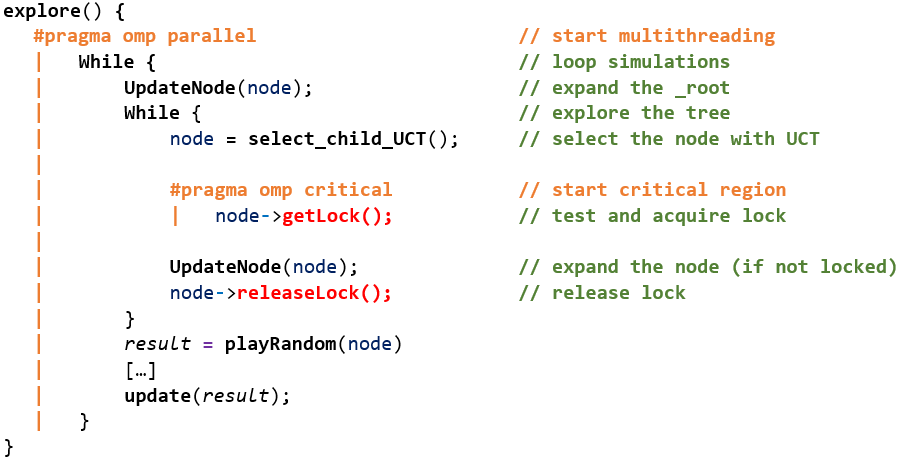
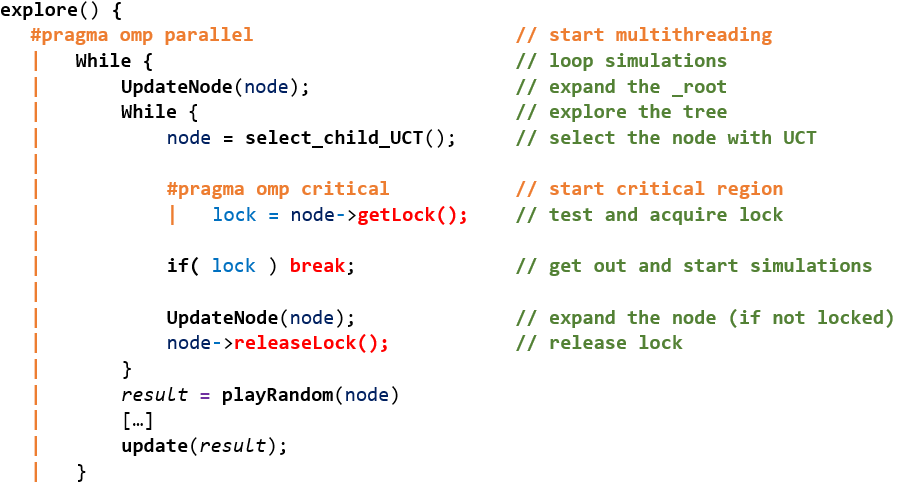
updating all my parts.

diff --git a/Docs/Reports/Report_4/Data_Structure/text.tex b/Docs/Reports/Report_4/Data_Structure/text.tex
@@ -1,7 +1,7 @@
-Given the size of the data our software will be working on, it requires an efficient way of storing them. There are 2 kinds of data, on the first hand the ones the program works on; on the other hand, the parameters and utilities.
+Reading only 2 moves ahead on Arimaa requires at least \ensuremath{20 000^2 = 4 \times 10^8} positions to be explored. If the size of a node is 100 octets, in order to store such a tree, we would require \ensuremath{4\times10^{10} octets \approx 37,3 Gio}. Given the size of the data our software will be working on, it requires an efficient way of storing them. There are 2 kinds of data, on one hand the ones the program works on; on the other hand, the parameters and utilities.
 \subsection{Representation of the playouts}
 \subsubsection{Bitboards}
-Boards are stored as bitboard. As the game is played on a \ensuremath{8\times8} board, it is convenient to use a 64 bit integer to store the position of the pieces. That way, each and every kind of pieces are stored on the same x64 integer, saving space as opposed to a matrix \ensuremath{8\times8} retaining all the informations. Players own rabbits, cats, dogs, horses, camel and elephant; thus using 6 integers for each player do the job. Adding an additionnal bitboard to store the position of every pieces of each players helps to increase the speed of the algorithm by reducing the number of test required to be done during the playout phases. It also allows quick tests and modifications such as bit twiddling given the nature of the data.
+Boards are stored as bitboards. As the game is played on a \ensuremath{8\times8} board, it is convenient to use a 64 bit integer to store the position of the pieces. That way, each and every kind of pieces is stored on the same x64 integer, saving space as opposed to a matrix \ensuremath{8\times8} retaining all the informations. Players own rabbits, cats, dogs, horses, camel and elephant; thus using 6 integers for each player is the least . Adding a bitboard to store the position of every piece of each players helps to increase the speed of the algorithm by reducing the number of tests required to be done during the playout phases. It also allows quick tests and modifications such as bit twiddling given the nature of the data.
 
 \subsubsection{Nodes}
 \begin{figure}[H] 
@@ -11,11 +11,12 @@ Boards are stored as bitboard. As the game is played on a \ensuremath{8\times8} 
 Nodes contain statistics about the previous results, a pointer to their parent, a pointer to the first of their children and the number of children they own. They are stored in an array (\textit{\_tree}) set at the begining of the program, thus grouping them on a countinuous memory segment. Therefore the time to gain access to them is decreased.
 
 \subsubsection{Prunning}
+Once a move has been played, only the sub-tree of its node is being kept. The others have to be discarded in order to get back some memory. The process of removing this branches is called prunning.
 \begin{figure}[H] 
 \centerline{\includegraphics[width=\textwidth]{Data_Structure/Img/array.png}}
 \caption{\label{fig:arrayprunning}\textit{Prunning of the tree (before and after)}.}
 \end{figure}
-In order to prune the tree, we use the following method : create a copy of the current tree (\textit{\_tree}) into a buffer (\textit{\_buff}). The root of the buffer tree will be a copy of the chosen node. Then the children are saved going down through the branches. The advantage of this method is that you only copy the nodes you want to keep. However the memory used by the buffer needs to be the same as the one of the tree before the prunning. Thus the maximum memory that can be used by the tree (\textit{\_tree}) is half the memory used by the program. In order to dermine the number of leaves to be created, the program checks how much memory there is left on the computer and use a fixed percentage of it.
+In order to prune the tree, we use the following method : create a copy of the current tree (\textit{\_tree}) into a buffer (\textit{\_buff}). The root of the buffer tree will be a copy of the node. Then the children are saved going down through the branches. The advantage of this method is that you only copy the nodes you want to keep. However the memory used by the buffer needs to be the same as the one of the tree before the prunning. Thus the maximum memory that can be used by the tree (\textit{\_tree}) is half the memory used by the program. In order to dermine the number of leaves to be created, the program checks how much memory there is left on the computer and use a fixed percentage of it.
 \begin{equation}
 N = \frac{R \times 90\%}{2}
 \end{equation}
@@ -29,7 +30,7 @@ We chose to limit the memory used by the tree to 90\% of the available memory in
 \centerline{\includegraphics[scale=0.8]{Data_Structure/Img/TheGame.png}}
 \caption{\label{fig:thegamedetails}\textit{Details of methods cointained in the interface TheGame}.}
 \end{figure}
-In order to know the moves that can be played and the winning conditions, the mcts algorithm has to have access to a class describing the game. This abstract class is implemented and passed as a parameter at the instantiation of the mcts object. It allows genericity in the algorithm and permits to use it on any board games such as Connect4 or Arimaa. This interface has 4 main methods : 
+In order to know the moves that can be played and the winning conditions, the mcts algorithm has to access to a class describing the game. This abstract class is implemented and passed as a parameter at the instantiation of the mcts object. It allows genericity in the algorithm and permits to use it on any board games such as Connect4 or Arimaa. This interface has 4 main methods : 
 
 \noindent
 \textit{\textbf{end}} : check if the board provided is a final state.
@@ -43,7 +44,7 @@ In order to know the moves that can be played and the winning conditions, the mc
 \newpage
 \subsection{Parameters and utilities}
 \subsubsection{Parameters}
-Instead of directly passing all the parameters to the mcts object at its instantiation, we decided to create an object that would provide them, given appropriate inline getters. The point of this is to allow quick modification on the parameters without having to rewrite some parts of the mcts to make sure that each files is updated. The main idea applied here is to separate the data from the algorithm with the same principle as the MVC design pattern.
+Instead of directly passing all the parameters to the mcts object at its instantiation, we decided to create an object that would provide them, given appropriate inline getters. The point of this is to allow quick modification on the parameters without having to rewrite some parts of the mcts to make sure that each files is updated. The main idea applied here is to separate the data from the algorithm with the same principle as the parameter object pattern.
 \begin{figure}[H] 
 \centerline{\includegraphics[scale=0.8]{Data_Structure/Img/MctsArgs.png}}
 \caption{\label{fig:mctsargsuml}\textit{Details of the parameters of the algorithm}.}
@@ -52,10 +53,10 @@ Instead of directly passing all the parameters to the mcts object at its instant
 \subsubsection{Fast log}
 The MCTS algorithm does not require an exact value of the \ensuremath{ln(x)} function in order to calculate the UCT value of a node. As numbers are stored in binary on computers, it is more interesting to get their log in base 2 and to divide it by \ensuremath{ln(2)}. 
 \begin{equation}
-ln(x) = \frac{log2(x)}{ln(2)}
+log2(x) = \frac{ln(x)}{ln(2)}
 \end{equation}
 \begin{equation}
-ln(x) = log2(x) \times \frac{1}{ln(2)}
+ln(x) = log2(x) \times ln(2)
 \end{equation}
 \begin{equation}
 ln(x) = log2(x) \times 0.69314718f

diff --git a/Docs/Reports/Report_4/Parallelisation/Computer/text.tex b/Docs/Reports/Report_4/Parallelisation/Computer/text.tex
@@ -1,22 +1,23 @@
-Given the size of the tree to be explored (at least 400 million nodes), a root parallelisation strategy on computers could not be applied. A 11 million nodes tree require about 2 Go of RAM. Should it be timed by 40 and the number of core, there would be not enough RAM.
-\bigskip
-\begin{center}
-	\begin{tabular}{ | c | c | c |}
-		\hline  & Before & After \\ \hline
-		\hline  
-		Percentage of memory used & 39\% & 93\% \\
-		\hline  
-		Total physical memory & 3981 MB & 3981 MB \\
-		\hline  
-		Free physical memory & 2411 MB & 255 MB \\
-		\hline
-	\end{tabular}
+Given the size of the tree to be explored (at least \ensuremath{4 \times 10^8} nodes, see \ref{sec:DS}), a root parallelisation strategy within a machine can not be applied. A 11 million nodes tree requires about 2 Gio of RAM. Should it be timed by 40 (\ensuremath{11 \times 10^6 \times 40 \approx 4 \times 10^8}), it would requires 80 Gio of RAM. Multiple threads, each working on seperate trees, would requires much more memory than available.
+% \bigskip
+% \begin{center}
+% 	\begin{tabular}{ | c | c | c |}
+% 		\hline  & Before & After \\ \hline
+% 		\hline  
+% 		Percentage of memory used & 39\% & 93\% \\
+% 		\hline  
+% 		Total physical memory & 3981 MB & 3981 MB \\
+% 		\hline  
+% 		Free physical memory & 2411 MB & 255 MB \\
+% 		\hline
+% 	\end{tabular}
 	
-	Comparison between the RAM available before and after\\the creation of a tree (and its buffer) composed by 10 940 207 nodes.
-\end{center}
-\bigskip
+% 	Comparison between the RAM available before and after\\the creation of a tree (and its buffer) composed by 10 940 207 nodes.
+% \end{center}
+% \bigskip
 
-With this in mind, a tree parallelisation strategy has to be implemented on the computer. In this method, multiple threads share the same tree, the exploration is done the same way as it is with one thread.
+With this in mind, a tree parallelisation strategy has to be implemented on the computer. In this method, multiple threads share the same tree \ref{fig:TreeParallelization}, the exploration is done the same way as it is with one thread. The main problem is that multiple threads can access the same node and corrupt data given by another thread. To avoid such problems, we will be using \textit{virtual loss} and \textit{local mutexes}.
+
 \begin{figure}[H]
 \centerline{\includegraphics[]{Parallelisation/Computer/Img/Tree.png}}
 \caption{\label{fig:TreeParallelization}\textit{Tree parallelization}}
@@ -24,20 +25,19 @@ With this in mind, a tree parallelisation strategy has to be implemented on the 
 \begin{figure}[H]
 \centerline{\includegraphics[width=0.7\textwidth]{Parallelisation/Computer/Img/legend.png}}
 \end{figure}
-The main problem of this method is that multiple threads can access the same node and corrupt data given by another thread. To avoid such problems, we will be using \textit{virtual loss} and \textit{local mutexes}.
 
 Should a thread go through a node, it automaticaly increases the value of its visit counter. This will virtually decrease the winning rate of the node and therefore decrease its attractiveness.
 
 Each node also has a boolean to serve as a lock in order to prevent concurency. Its access is done in a critical section (atomic capture). Should a thread access a locked node, it will stop exploring and start its simulations.
 
-This method of parallelization can be done by multithreading the \textit{While // loop simulations} descriped in the base algorithm implementation\ref{fig:MCTSAlgorithmOMP}. Using OpenMP, this is easily implented with a single \#pragma statement :\\
+This method of parallelization can be done by multithreading the \textit{While // loop simulations} descriped in the base algorithm implementation \ref{fig:MCTSAlgorithmOMP}. Using OpenMP, this is easily implented with a single \#pragma statement :\\
 \textbf{\#pragma omp parallel shared(i,timeend)}\\
-where \textit{i}, the number of simulation run and \textit{timeend}, the time until simulations are to be run are defined as shared variables.
+where \textit{i}, the number of simulation run and \textit{timeend}, the time until simulations are to be run are defined as shared variables. That way, we make sure that the time limit and total number of simulations are not overtaken. 
 
 In order to prevent any conflict between threads, a small critical section has to control the lock of the nodes. Placing the following statement before \textit{node->getLock()} do the job :\\
 \textbf{\#pragma omp critical}
 
 \begin{figure}[H]
-\centerline{\includegraphics[width=0.7\textwidth]{Parallelisation/Computer/Img/omp.png}}
+\centerline{\includegraphics[width=0.9\textwidth]{Parallelisation/Computer/Img/omp.png}}
 \caption{\label{fig:MCTSAlgorithmOMP}\textit{Overview of the implementation of the tree parallelization using OpenMP}}
 \end{figure}

diff --git a/Docs/Reports/Report_4/Base_Algorithm/text.tex b/Docs/Reports/Report_4/Base_Algorithm/text.tex
@@ -1,14 +1,14 @@
-The base algorithm is a simple implementation of the MCTS algorithm. All the functions related to it are included in the mcts namespace. It takes as a parameter the abstract class \textit{TheGame}, the position (\textit{Bitboard}) to start the search with and an object (\textit{MctsArg}) to set the parameter to the MCTS algorithm such as the time to search on, the depth of the tree, the number of simulations to run and the number of nodes to create in the tree.
+The base algorithm is a implementation of the MCTS algorithm. All the functions related to it are included in the mcts namespace. It takes as a parameter the abstract class \textit{TheGame}, the position (\textit{Bitboard}) to start the search with and an object (\textit{MctsArg}) to set parameter to the MCTS algorithm such as the time to search on, the depth of the tree, the number of simulations to run and the number of nodes to create in the tree.
 The following Class Diagram\ref{fig:MCTSClassDiagram} represent the links between the differents kinds of objects.
 \begin{figure}[H] 
 \centerline{\includegraphics[width=0.6\textwidth]{Base_Algorithm/Img/MCTSsimple.png}}
 \caption{\label{fig:MCTSClassDiagram}\textit{Class Diagram of the mcts namespace}}
 \end{figure}
-The class Node represents the tree, it is stored as an array in the mcts object. A detailed implementation is provided in the Data Structure part.
+The class Node represents the tree, it is stored as an array in the mcts object. A detailed implementation is provided in the Data Structure part\ref{sec:DS}.
 
-The singleton \textit{Count} is used for the statistics (such as the number of leaves, nodes created and the number of simultions run). Whilst providing statistics it also makes sure that no  memory leaks are happening, monitoring creations and destructions of the main objects.
+The singleton \textit{Count} is used for the statistics (such as the number of leaves, nodes created and the number of run). Whilst providing statistics it also makes sure that no  memory leaks are happening by counting creations and destructions of the main objects.
 
-The following figure\ref{fig:MCTSAlgorithm} represents the order of the call for the main function while providing some details about the implementation.
+The following figure\ref{fig:MCTSAlgorithm} represents the order of calls for the main function and provides some details about the implementation.
 \begin{figure}[H]
 \centerline{\includegraphics[width=0.7\textwidth]{Base_Algorithm/Img/Algorithm.png}}
 \caption{\label{fig:MCTSAlgorithm}\textit{Overview of the implementation of the function GetBestMove()}}
@@ -24,7 +24,7 @@ The following figure\ref{fig:MCTSAlgorithm} represents the order of the call for
 \medskip\\
 \textit{\textbf{update}} : update the node statistics and feedback the result to its parents.
 \medskip\\
-\textit{\textbf{forceSetUCT}} : In the event of a winning move, the uct value is set to 10 in order to make sure that each and every further explorations go through that node.
+\textit{\textbf{forceSetUCT}} : In the event of a winning move, the uct value is set to 42 in order to make sure that each and every further explorations go through that node, (all the values calculated by the UCT function are below 42).
 \medskip\\
 \textit{\textbf{feedbackWinningMove}} : feedback the winning move to its parent, one does not want to go to that position because it would be a winning strategy for the opponent.
 \medskip\\
